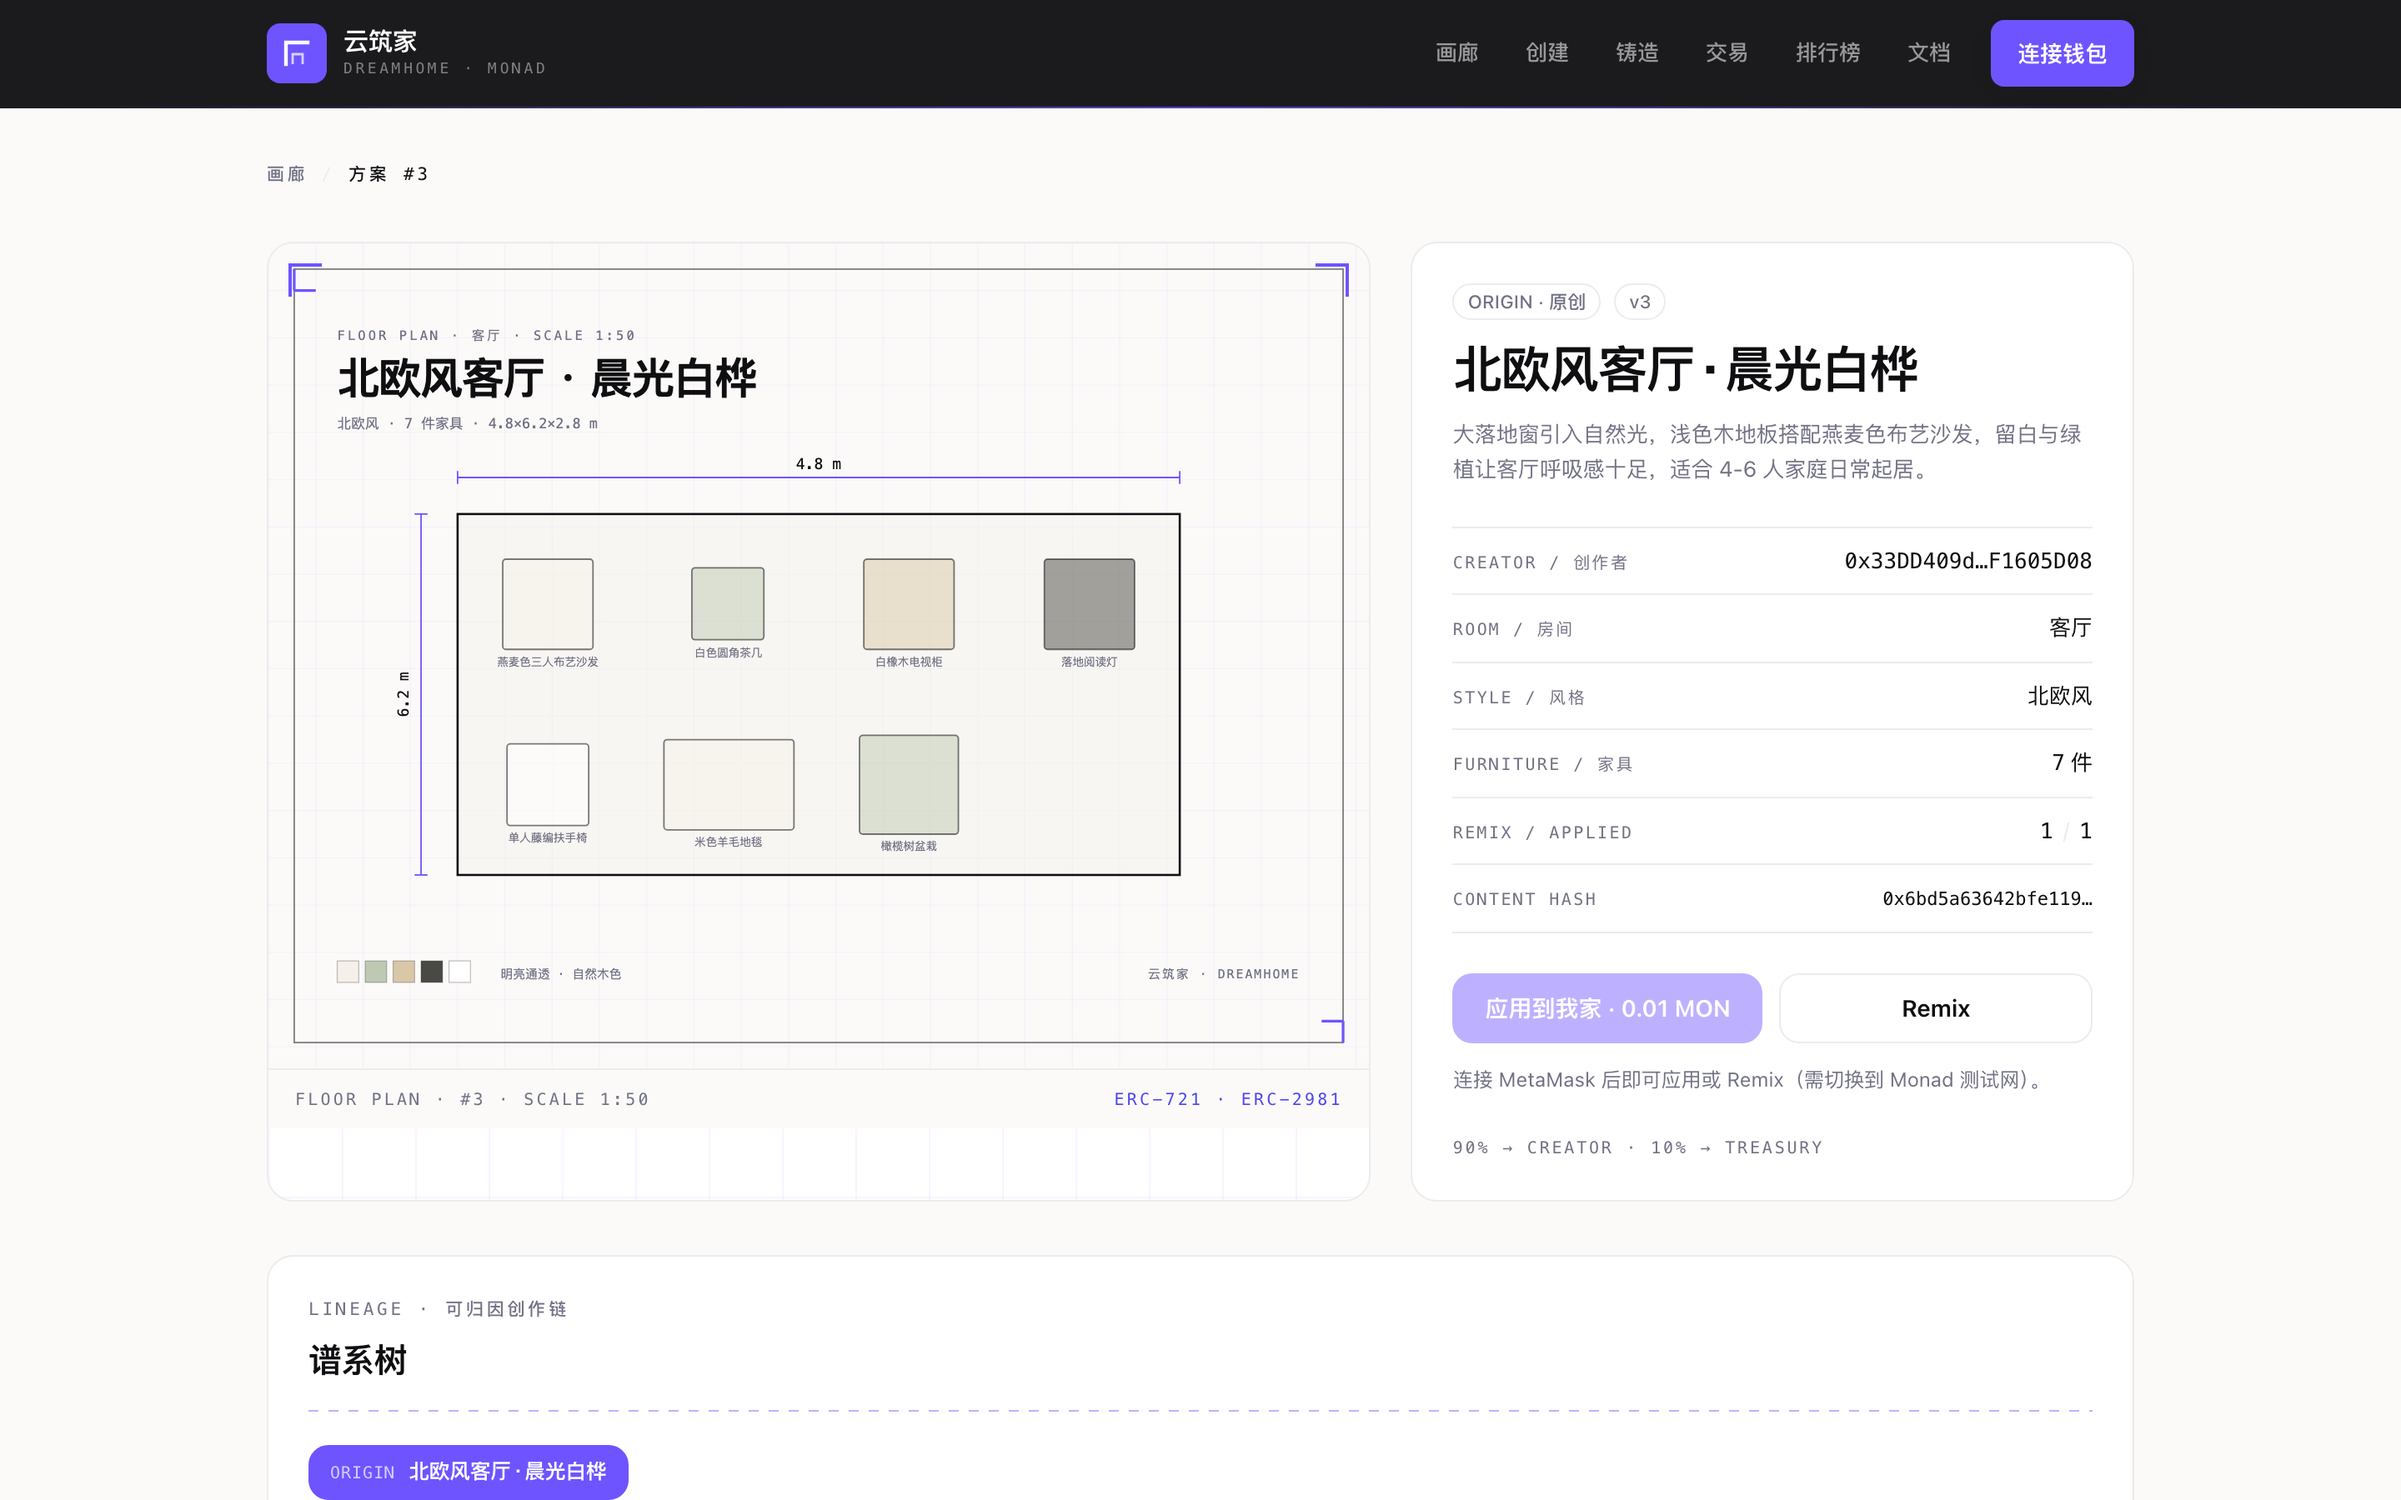
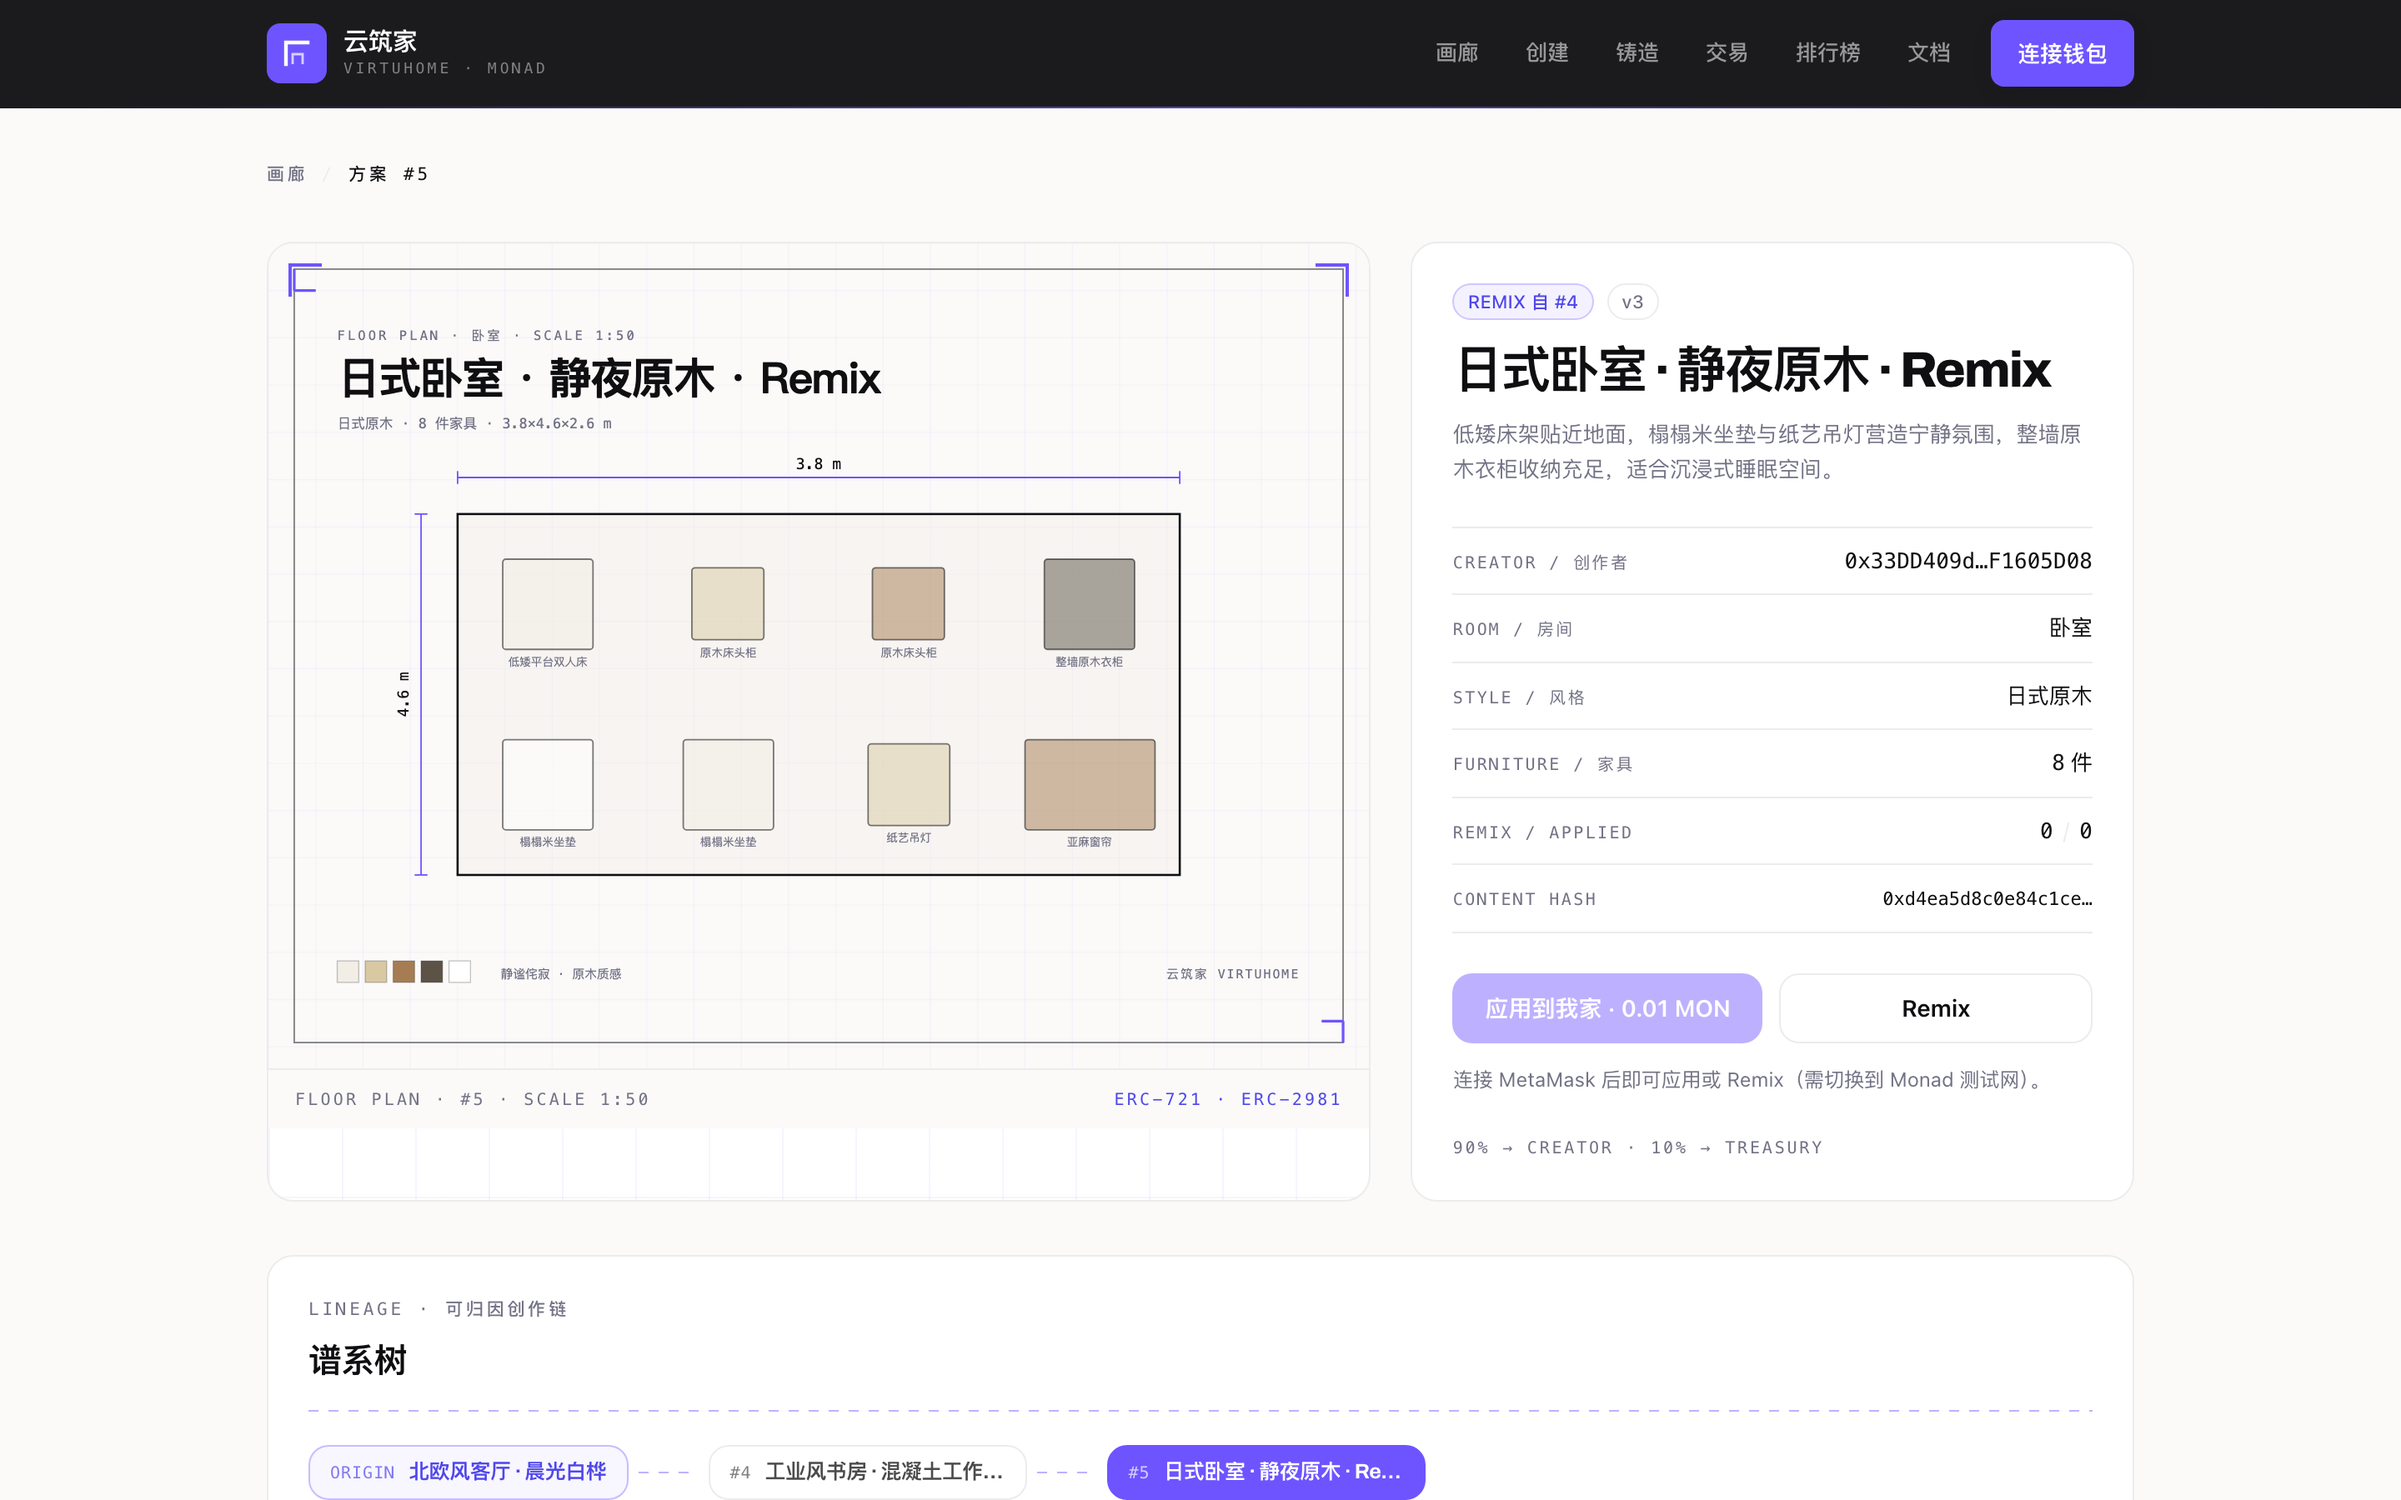
docs: 说明与云筑家 App 仓库的分离关系，更新部署地址与截图
- README 新增「与云筑家 App 的关系」：两仓库职责边界 + scheme JSON 交接流程图
- 明确本仓库不依赖 App 任何服务，示例数据可独立冷启动
- 合约地址、部署区块、浏览器链接更新为新部署
- 8 张截图重拍（新合约地址 + VIRTUHOME 品牌）

diff --git a/README.md b/README.md
@@ -1,13 +1,43 @@
-# 云筑家 · DreamHome on Monad
+# 云筑家 VirtuHome · Monad 参赛项目
 
-> 用手机扫描房间生成 3D 模型并做虚拟装修的创业项目（VirtuHome），把**装修设计方案**变成 Monad 链上
-> **可 remix、可归因、可分账**的创作资产——家居设计界的 GitHub。
+> 把云筑家 App 导出的**装修设计方案**变成 Monad 链上**可 remix、可归因、可分账**的创作资产
+> ——家居设计界的 GitHub。
 > 参赛赛道：Monad 黑客松 **Social / Attention / Culture**。
+
+本仓库是**独立可运行的参赛交付物**：一份方案 JSON 进来，一枚 ERC-721 方案 NFT 出去，
+之后所有引用与付费都在链上留下痕迹。
 
 每份装修方案 = 一枚 ERC-721 NFT：原创铸造（parentId=0）或 Remix 衍生（parentId 指向来源，谱系上链可追溯）；
 任何用户支付 0.01 MON「应用到我家」时，**90% 即时转给创作者、10% 累积到平台金库**；转售按 ERC-2981 收取 5% 版税。
 注意力（remix 数 × 被应用次数）即资产，由链上事件实时聚合为排行榜。
 同一作者持续迭代时 parentId 指向自己的上一版，形成链上 **v1 → v2 → v3 版本时间线**；评论走**链下存储 + 钱包签名验证**（SIWE 风格），零 gas。
+
+---
+
+## 与云筑家 App 的关系
+
+本项目与云筑家 App **完全解耦**，分属两个仓库，只通过一份 scheme JSON 交接：
+
+| 仓库 | 职责 | 地址 |
+| --- | --- | --- |
+| **virtu-home** | 云筑家 App 本体：手机扫描房间 → 服务端重建 3D → PC 工作台虚拟装修 → **导出方案** | <https://gitee.com/freyahhhhh/virtu-home> |
+| **monad-competition**（本仓库） | 方案的链上创作资产：**创建 / 铸造 / Remix / 交易 / 排行榜** | <https://gitee.com/freyahhhhh/monad-competition_-designer-github> |
+
+```text
+云筑家 App（virtu-home 仓库）                       本仓库（monad-competition）
+┌────────────────────────────┐                  ┌──────────────────────────────┐
+│ 手机扫描 → 3D 重建 → 虚拟装修 │                  │  ⑦ 画廊信息流 / 排行榜         │
+│                            │                  │  ⑥ Remix 衍生（parentId 上链） │
+│        导出 scheme JSON ────┼─── 同一份 JSON ──▶│  ⑤ 铸造 ERC-721 方案 NFT      │
+│         （房间 + 风格 + 家具）│                  │  ④ /api/pin → IPFS 固定       │
+└────────────────────────────┘                  │  ③ 参赛站 /create 拖入 JSON    │
+                                                │  ⑧ 应用到我家 90/10 自动分账    │
+                                                └──────────────────────────────┘
+```
+
+**本仓库不依赖 App 的任何服务**：没有 App 也能跑——`assets/schemes/` 里预置了 3 份示例方案
+（北欧风客厅、日式卧室、工业风书房），`npm run seed` 可直接铸造出可供 Remix 的初始方案。
+App 侧只要导出同一格式的 JSON，就能无缝进入这套流程。
 
 ---
 
@@ -30,7 +60,7 @@
 │   Monad Testnet       │   │  IPFS（Pinata，可本地演示）    │
 │   Chain ID 10143      │   │  方案 JSON / 预览图 / 元数据   │
 │                       │   │  contentHash = keccak256()    │
-│ DreamScheme (ERC-721   │   │                              │
+│ VirtuHomeScheme (ERC-721   │   │                              │
 │  + ERC-2981 5%)       │   └──────────────────────────────┘
 │ SchemeMarket (90/10)  │
 └───────────────────────┘
@@ -40,7 +70,7 @@
 
 | 合约 | 地址（部署后填写） | 说明 |
 | --- | --- | --- |
-| `DreamScheme` | `0xd6a068b60db6c2E0bb6732a07DB489D5888a9D4e` | ERC-721 + ERC-2981（5%）；`mint(parentId, contentHash, tokenURI)` 开放铸造；`parentId=0` 原创、`>0` remix 来源；记录 `creator`；`lineageOf` 返回完整谱系、`versionLineOf` 返回同作者版本链（v1/v2/v3）；事件 `SchemeMinted(tokenId, creator, parentId, contentHash)` |
+| `VirtuHomeScheme` | `0xE04077c0FfFEce593Bf7bB87F009EB7E3ced3137` | ERC-721 + ERC-2981（5%）；`mint(parentId, contentHash, tokenURI)` 开放铸造；`parentId=0` 原创、`>0` remix 来源；记录 `creator`；`lineageOf` 返回完整谱系、`versionLineOf` 返回同作者版本链（v1/v2/v3）；事件 `SchemeMinted(tokenId, creator, parentId, contentHash)` |
 | `SchemeMarket` | `0x…` | `applyScheme(tokenId)` payable（预设 0.01 MON）：90% 转创作者、10% 累积 `platformAddress` 可 `withdraw()`；事件 `SchemeApplied` |
 
 分账细节：创作者地址在铸造时固化，NFT 转手不影响分账对象；创作者拒收 ETH 时份额计入平台代管（`CreatorShareEscrowed`），
@@ -53,7 +83,7 @@
 ```text
 monad/
 ├── contracts/                 Foundry 合约工程
-│   ├── src/DreamScheme.sol    方案 NFT（ERC-721 + ERC-2981 5% + 谱系/版本链）
+│   ├── src/VirtuHomeScheme.sol    方案 NFT（ERC-721 + ERC-2981 5% + 谱系/版本链）
 │   ├── src/SchemeMarket.sol   应用付费与 90/10 分账
 │   ├── test/                  Foundry 单元测试（35 个用例）
 │   ├── script/Deploy.s.sol    部署脚本，输出并落盘合约地址
@@ -104,7 +134,7 @@ forge script script/Deploy.s.sol --rpc-url monad_testnet --broadcast -vv
 验证源码（浏览器验证）：
 
 ```bash
-forge verify-contract <DREAMSCHEME_ADDR> src/DreamScheme.sol:DreamScheme \
+forge verify-contract <VIRTUHOME_SCHEME_ADDR> src/VirtuHomeScheme.sol:VirtuHomeScheme \
   --chain 10143 --verifier-url https://testnet.monadexplorer.com/api \
   --etherscan-api-key <MONAD_EXPLORER_API_KEY>
 # SchemeMarket 同理；也可用 Explorer 网页上传 JSON 源码验证
@@ -115,7 +145,7 @@ forge verify-contract <DREAMSCHEME_ADDR> src/DreamScheme.sol:DreamScheme \
 ```bash
 cd web
 cp .env.example .env.local
-# 填入 NEXT_PUBLIC_DREAMSCHEME_ADDRESS / NEXT_PUBLIC_SCHEME_MARKET_ADDRESS
+# 填入 NEXT_PUBLIC_VIRTUHOME_SCHEME_ADDRESS / NEXT_PUBLIC_SCHEME_MARKET_ADDRESS
 # 可选：PINATA_KEY/PINATA_SECRET（IPFS）、KIMI_API_KEY、NEXT_PUBLIC_WALLETCONNECT_PROJECT_ID
 # 不填 Pinata/Kimi 时自动进入 local:// 本地演示模式 + 内置规则引擎，全流程可跑通
 npm install
@@ -147,8 +177,8 @@ SEED_APPLY_TOKEN=1 npm run seed    # 对 #1 执行一次「应用到我家」（
 | 项目 | 地址 |
 | --- | --- |
 | 前端 Demo（本地 / 线上） | `http://localhost:3000`（部署后替换为线上地址，如 `https://<your-app>.vercel.app`） |
-| DreamScheme 合约 | [0xd6a068b60db6c2E0bb6732a07DB489D5888a9D4e](https://testnet.monadexplorer.com/address/0xd6a068b60db6c2E0bb6732a07DB489D5888a9D4e) |
-| SchemeMarket 合约 | [0xb32210cDe4D920E02e774281f679629D03B274ee](https://testnet.monadexplorer.com/address/0xb32210cDe4D920E02e774281f679629D03B274ee) |
+| VirtuHomeScheme 合约 | [0xE04077c0FfFEce593Bf7bB87F009EB7E3ced3137](https://testnet.monadexplorer.com/address/0xE04077c0FfFEce593Bf7bB87F009EB7E3ced3137) |
+| SchemeMarket 合约 | [0x1E2f4a8c70371A27f6232c9806aa8b85Ce705513](https://testnet.monadexplorer.com/address/0x1E2f4a8c70371A27f6232c9806aa8b85Ce705513) |
 | Monad 测试网 RPC | <https://testnet-rpc.monad.xyz> |
 | 测试币水龙头 | <https://faucet.monad.xyz> |
 | 演示视频 | <https://youtu.be/REPLACE_ME> |
@@ -159,10 +189,10 @@ SEED_APPLY_TOKEN=1 npm run seed    # 对 #1 执行一次「应用到我家」（
 
 | 合约 | 地址 | 部署区块 |
 | --- | --- | --- |
-| DreamScheme | `0xd6a068b60db6c2E0bb6732a07DB489D5888a9D4e` | `64997161` |
-| SchemeMarket | `0xb32210cDe4D920E02e774281f679629D03B274ee` | `64997161` |
+| VirtuHomeScheme | `0xE04077c0FfFEce593Bf7bB87F009EB7E3ced3137` | `65618721` |
+| SchemeMarket | `0x1E2f4a8c70371A27f6232c9806aa8b85Ce705513` | `65618721` |
 
-浏览器：<https://testnet.monadexplorer.com/address/0xd6a068b60db6c2E0bb6732a07DB489D5888a9D4e> 与 <https://testnet.monadexplorer.com/address/0xb32210cDe4D920E02e774281f679629D03B274ee>。
+浏览器：<https://testnet.monadexplorer.com/address/0xE04077c0FfFEce593Bf7bB87F009EB7E3ced3137> 与 <https://testnet.monadexplorer.com/address/0x1E2f4a8c70371A27f6232c9806aa8b85Ce705513>。
 前端已验证：画廊、详情谱系、铸造中心、交易账本、排行榜均读取链上真实数据。
 
 ### 视觉与设计规范
@@ -224,7 +254,7 @@ cd web && npm run previews   # 重新生成 assets/schemes/previews 与 web/publ
 | 要求 | 状态 | 位置 |
 | --- | --- | --- |
 | `forge test` 全通过 | ✅ 35/35 | `contracts/test/` |
-| DreamScheme（ERC-721+ERC-2981 5%，mint 开放，谱系事件） | ✅ | `contracts/src/DreamScheme.sol` |
+| VirtuHomeScheme（ERC-721+ERC-2981 5%，mint 开放，谱系事件） | ✅ | `contracts/src/VirtuHomeScheme.sol` |
 | SchemeMarket（applyScheme 90/10 分账 + withdraw） | ✅ | `contracts/src/SchemeMarket.sol` |
 | 部署脚本输出地址 | ✅ | `contracts/script/Deploy.s.sol` + `deployments/` |
 | `/api/pin`（Pinata，`PINATA_KEY/SECRET`）+ `.env.example` | ✅ | `web/app/api/pin/route.ts` |
@@ -232,7 +262,7 @@ cd web && npm run previews   # 重新生成 assets/schemes/previews 与 web/publ
 | 8 页面（画廊/详情/创建/Remix/铸造中心/交易记录/排行榜/玩法文档），中文移动端自适应 | ✅ | `web/app/**` |
 | viem 读事件 + IPFS 元数据（画廊）、谱系树、应用/Remix 按钮 | ✅ | `web/lib/contracts.ts`、`web/components/LineageTree.tsx` |
 | `assets/` 3 套示例方案 + 预览图 + seed 脚本 | ✅ | `assets/schemes/`、`web/scripts/seed.ts` |
-| 版本管理（链上谱系 v1/v2/v3 时间线） | ✅ | `DreamScheme.versionLineOf` + `web/components/VersionTimeline.tsx` |
+| 版本管理（链上谱系 v1/v2/v3 时间线） | ✅ | `VirtuHomeScheme.versionLineOf` + `web/components/VersionTimeline.tsx` |
 | 评论（链下存储 + 钱包签名验证，POST/GET `/api/comment`） | ✅ | `web/app/api/comment/route.ts`、`web/lib/comments.ts` |
 | 创建页拖拽上传 JSON + 参数摘要确认 | ✅ | `web/app/create/page.tsx` |
 | git 提交 feat/test/docs 分开 | ✅ | 见 `git log` |
@@ -250,7 +280,7 @@ cd web && npm run previews   # 重新生成 assets/schemes/previews 与 web/publ
 
 ## 常见问题
 
-- **这个仓库和 `vibecoding_VirtuHome` 的关系**：本仓库是黑客松交付用的独立仓库，只包含 Monad 相关内容；原创业项目的移动端扫描/后端服务在另一个仓库。
+- **这个仓库和云筑家 App 的关系**：两者完全解耦，只通过 scheme JSON 交接。本仓库是黑客松交付用的独立仓库，只包含 Monad 相关内容（合约 / 前端 / 示例数据）；App 本体的扫描、建模与虚拟装修在 `virtu-home` 仓库，见上方「与云筑家 App 的关系」。
 - **画廊一直显示演示数据**：`web/.env.local` 未配置合约地址，或部署后未重启 `npm run dev`。
 - **铸造按钮报「需要一个 Post-object」类错误**：钱包网络不对，切换到 Monad 测试网（10143）。
 - **Pinata 403**：确认 `PINATA_KEY/PINATA_SECRET` 有效；未配置时本地模式使用 `local://` 与 `/api/cid`，不影响演示。
